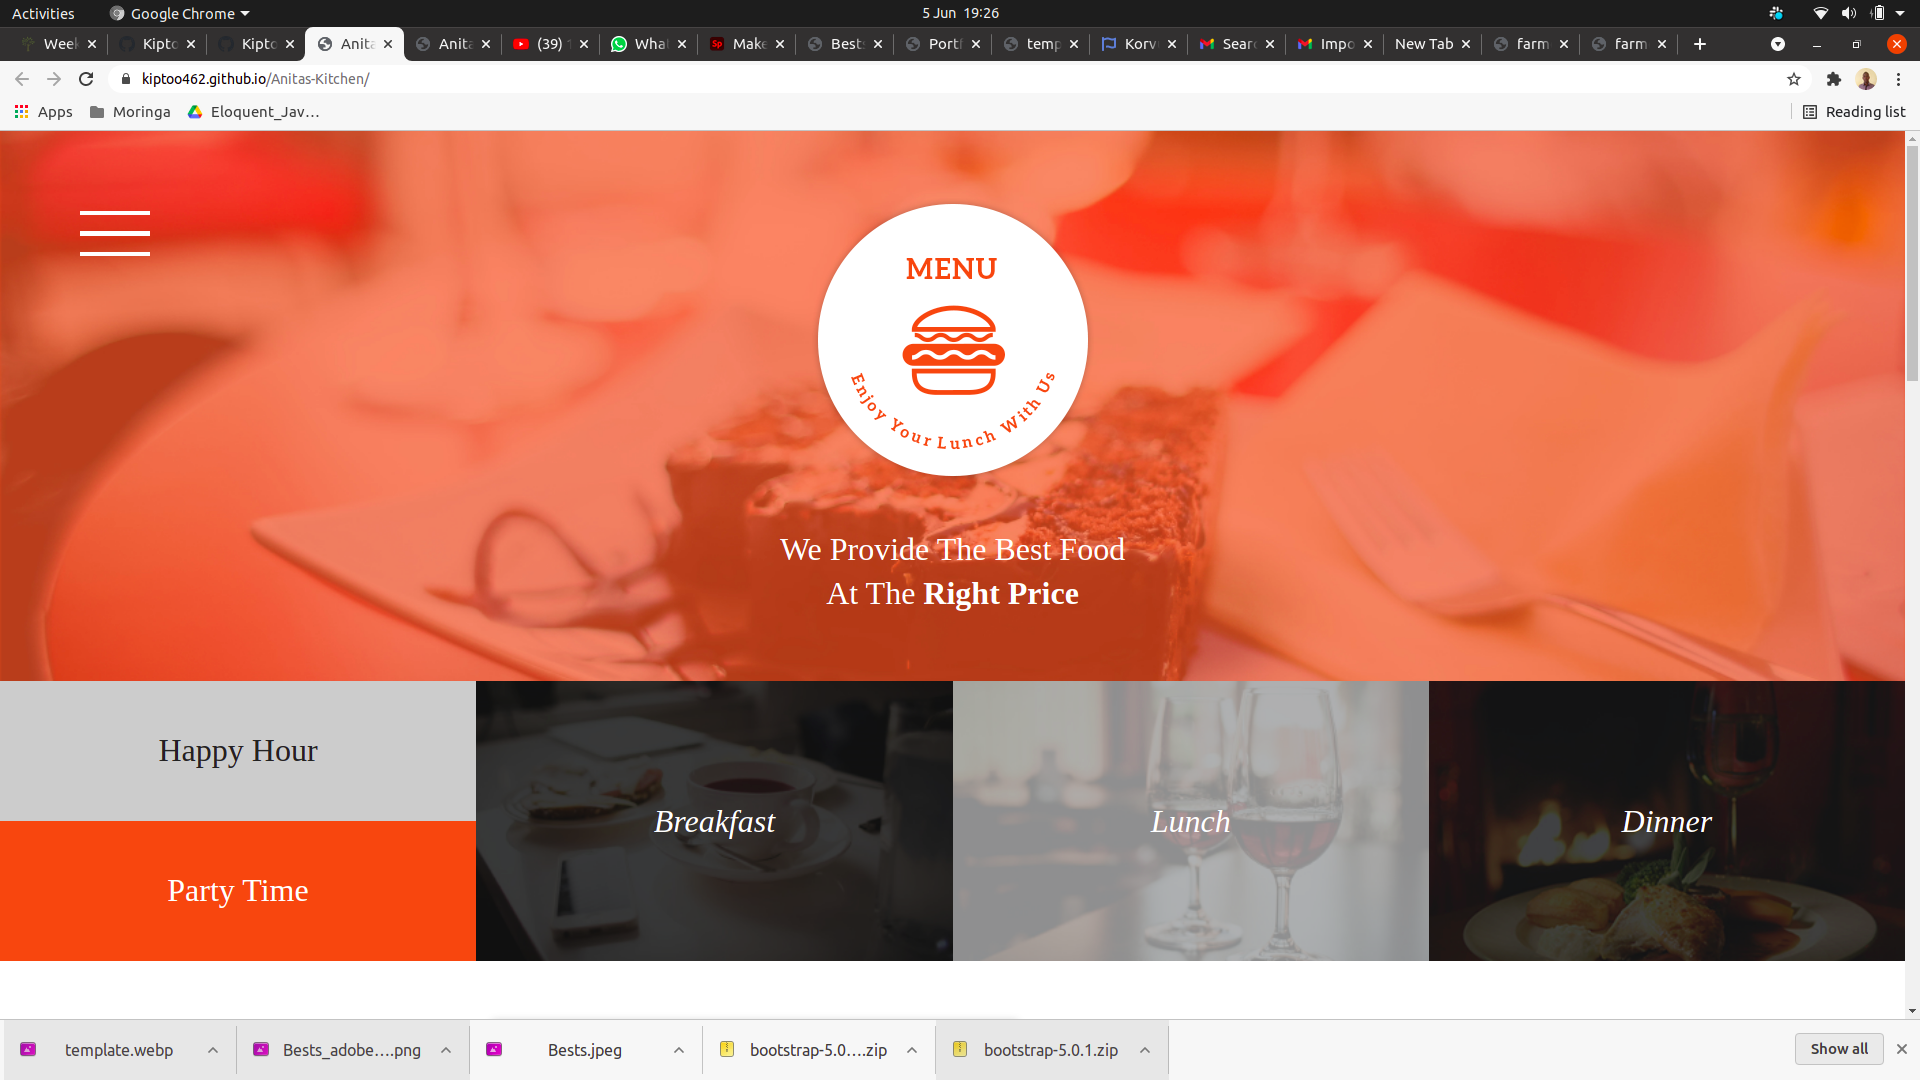
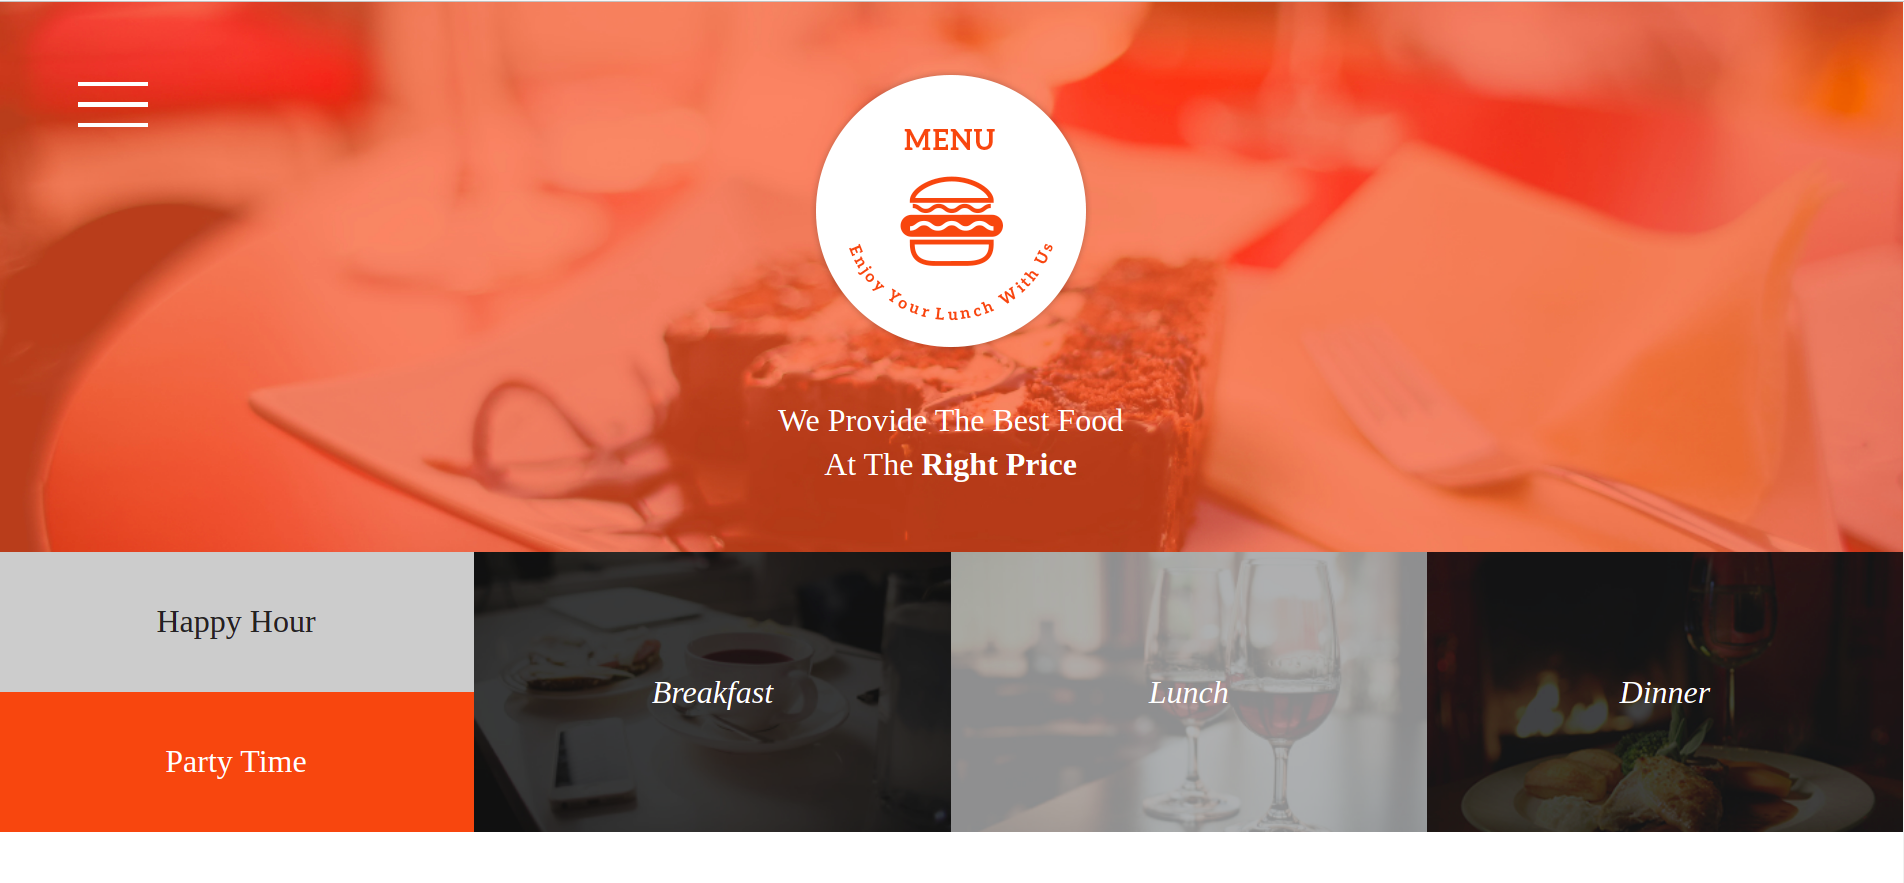
styled the projects info

diff --git a/css/styles.css b/css/styles.css
@@ -15,9 +15,9 @@ a{
 }
 
 .container{
-  width: 60%;
+  /* width: 60%;
   margin-left: auto;
-  margin-right: auto;
+  margin-right: auto; */
 }
 
 /* styled navigation */
@@ -57,6 +57,7 @@ a{
 /* styled hero section */
 
 .hero{
+  height: 60vh;
   text-align: center;
   display: flex;
   flex-direction: column;
@@ -87,3 +88,35 @@ a{
 .hero p{
   font-size: 1.8em;
 }
+
+.portfolio{
+  width: 80%;
+  margin-left: auto;
+  margin-right: auto;
+  overflow: hidden;
+}
+
+.portfolio h1,h2{
+  text-align: center;
+  margin: 1.2em;
+
+}
+
+.portfolio p{
+  line-height: 1.5;
+  margin: .5em 0;
+}
+
+.portfolio a{
+  color: blue;
+}
+
+.portfolio tr td{
+  padding: .8em;
+  
+}
+
+.portfolio tr td img{
+  border-radius: 5px;
+}
+

diff --git a/index.html b/index.html
@@ -33,7 +33,7 @@
       </div>
       
     </div>
-    <div>
+    <div class="portfolio">
       <h1>My Projects</h1>
       <table>
         <tr>
